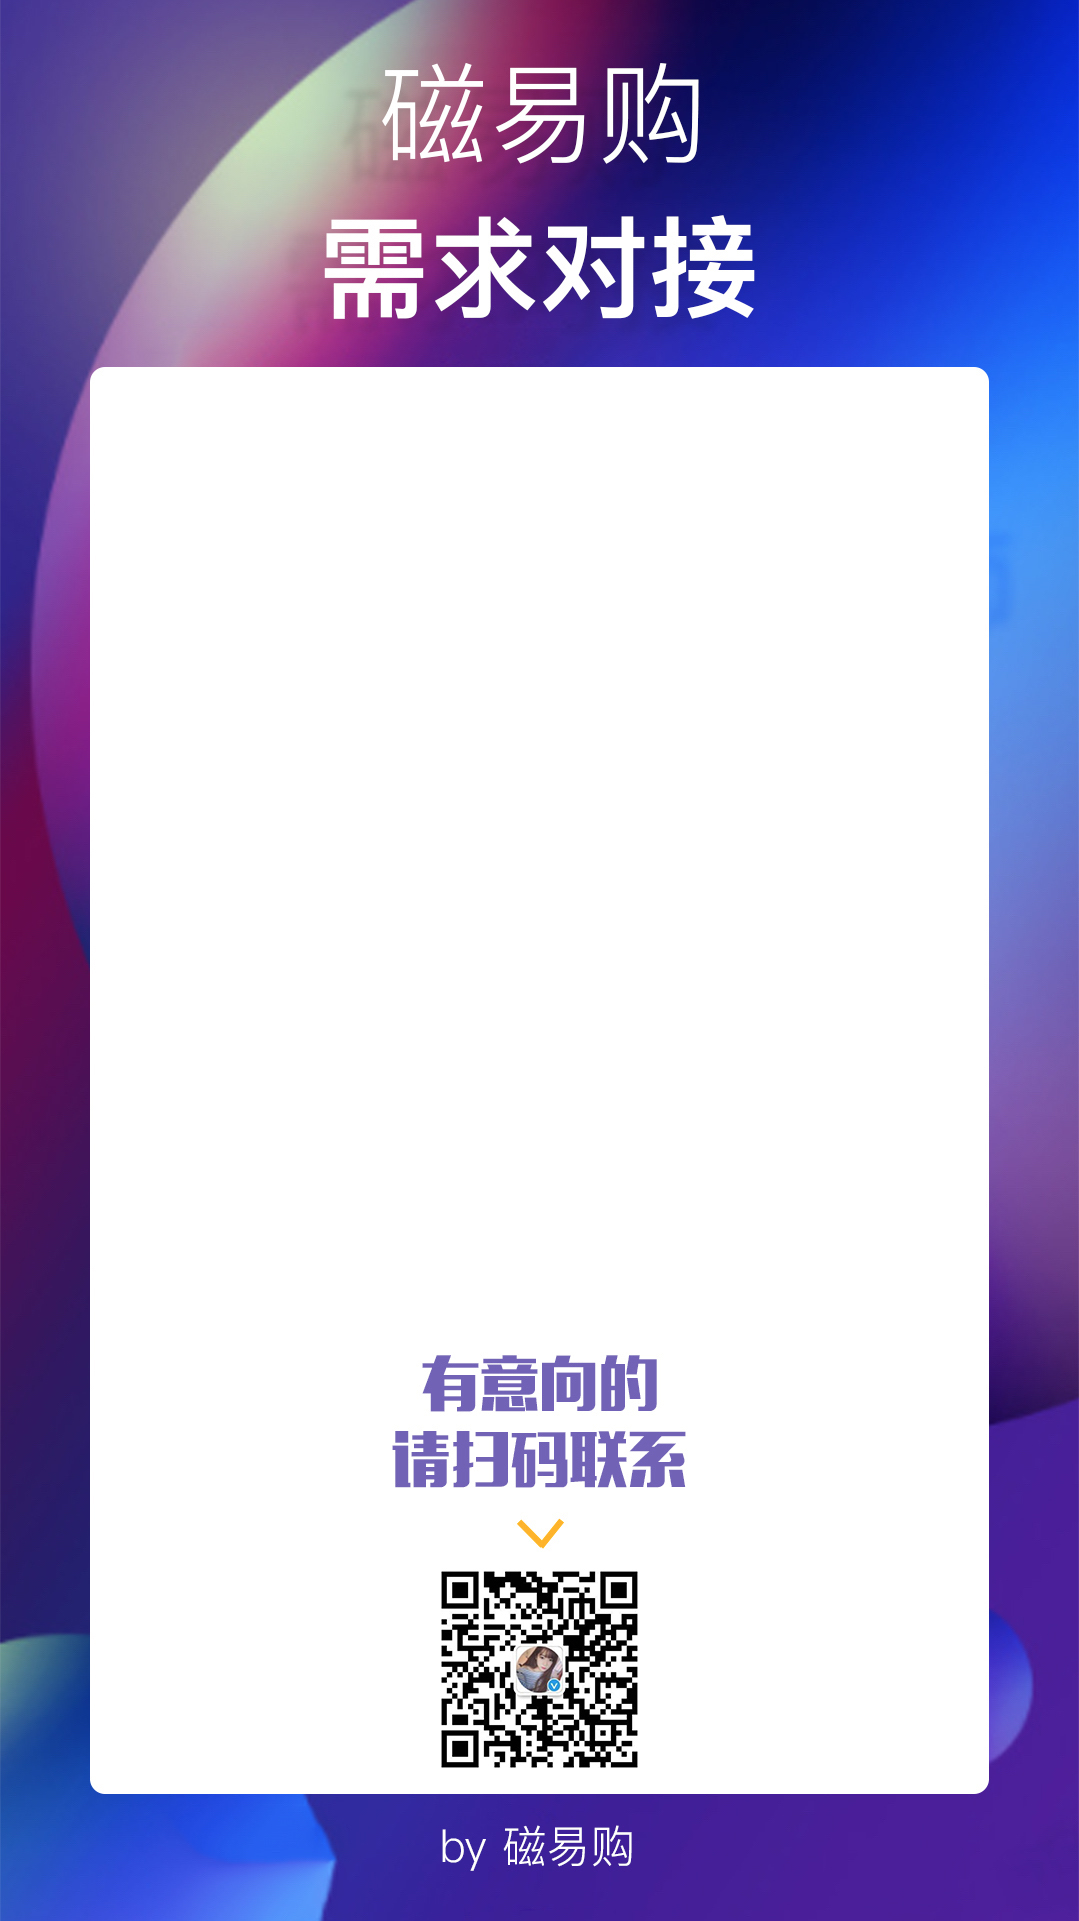
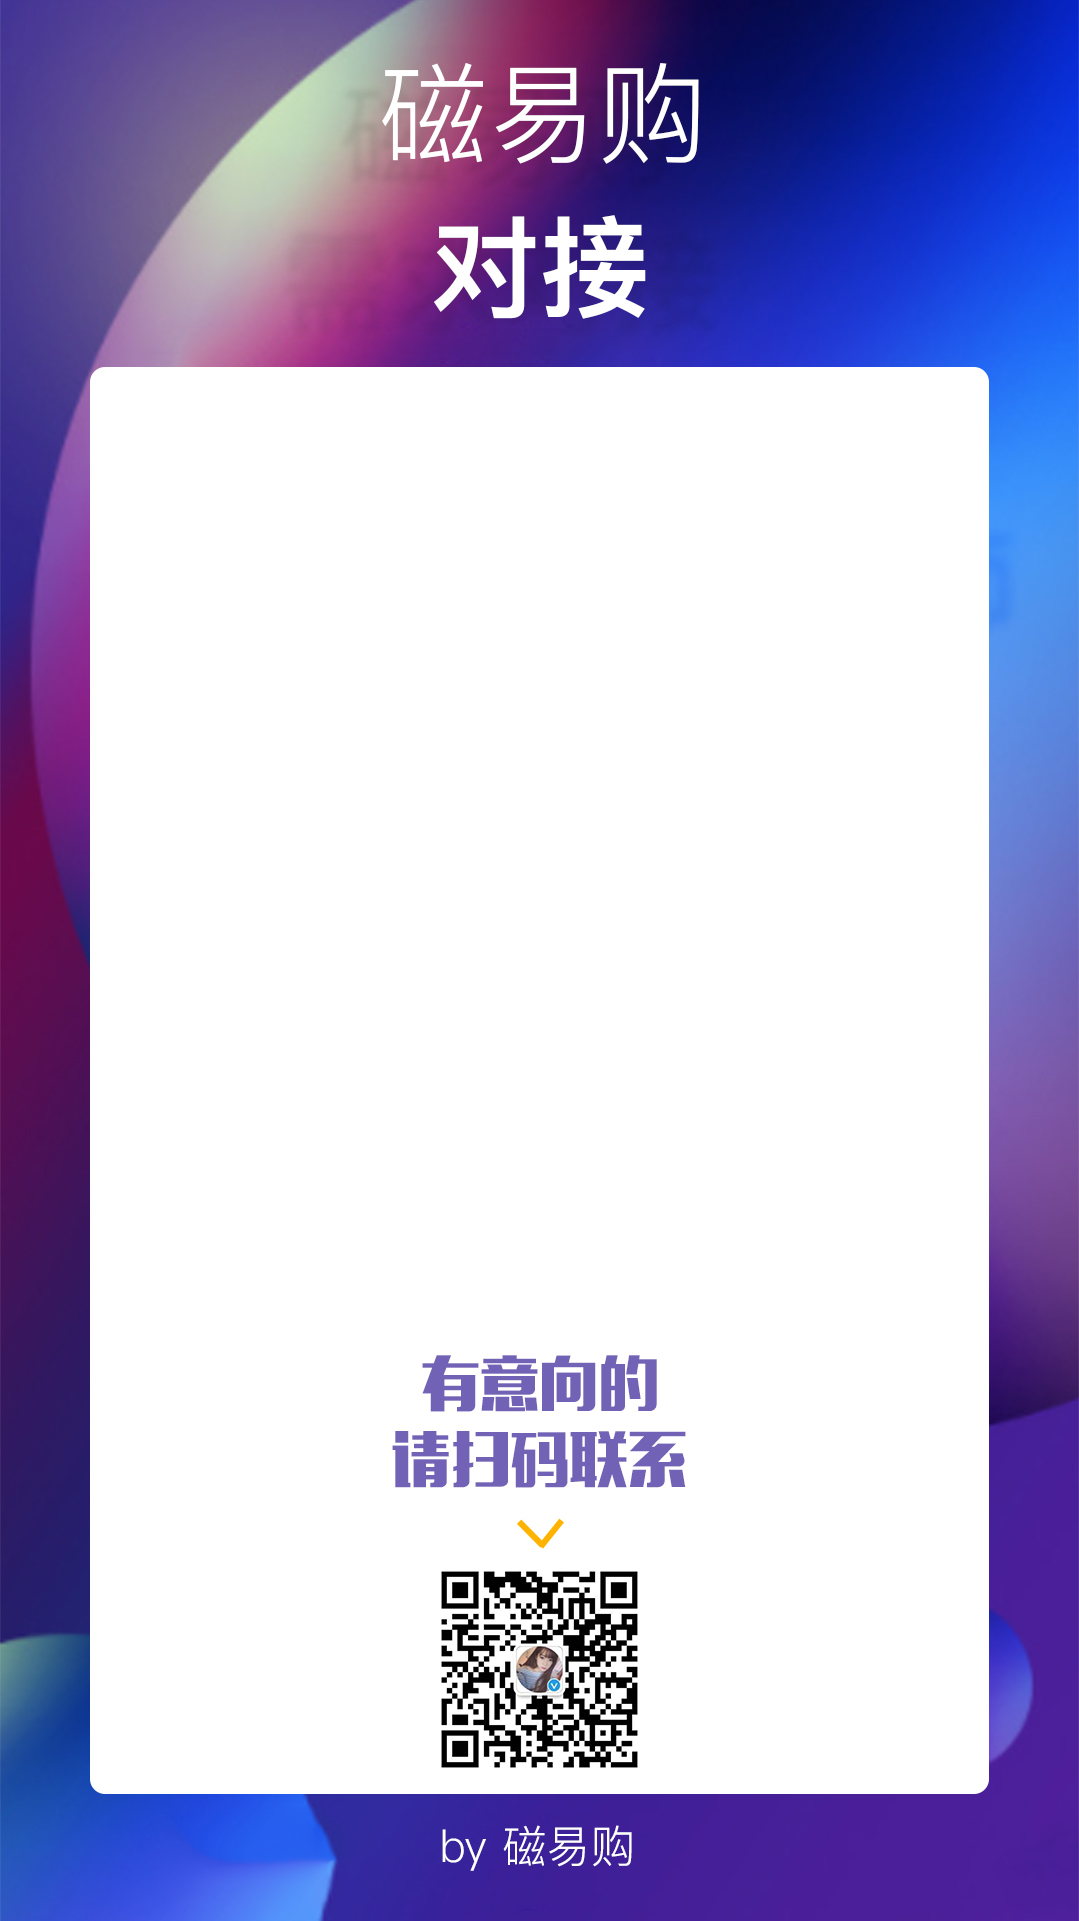
update

Changed region(s): [[0.3058, 0.0937, 0.7034, 0.1874], [0.4893, 0.7808, 0.5199, 0.8121]]

diff --git a/supply.py b/supply.py
@@ -6,7 +6,7 @@ import datetime
 
 today = datetime.date.today().strftime("%Y-%m-%d")
 print today
-filename = '磁易购【服务需求对接表】-表单反馈导出_%s.xlsx' % today
+filename = '磁易购【现货供应对接表】-表单反馈导出_%s.xlsx' % today
 wb = open_workbook(filename)
 ttfont = ImageFont.truetype("/Library/Fonts/微软雅黑.ttf",40)
 
@@ -16,12 +16,12 @@ for s in wb.sheets():
 		for col in range(s.ncols):
 			values.append(s.cell(row,col).value)
 		print values
-		im = Image.open("template.jpg")  
+		im = Image.open("template1.jpg")  
 		draw = ImageDraw.Draw(im)
 		draw.text((161,534),values[5], fill=(0,0,0),font=ttfont)  
 		draw.text((161,735),values[2], fill=(0,0,0),font=ttfont)
 		draw.text((161,935),values[7], fill=(0,0,0),font=ttfont)
 		draw.text((880,1700),values[0], fill=(0,0,0),font=ttfont)
-		save_filename = u'%s需求%s.jpg' % (values[2],values[0])
+		save_filename = u'%s供应%s.jpg' % (values[2],values[0])
 		im.save(save_filename)
 		values = []
